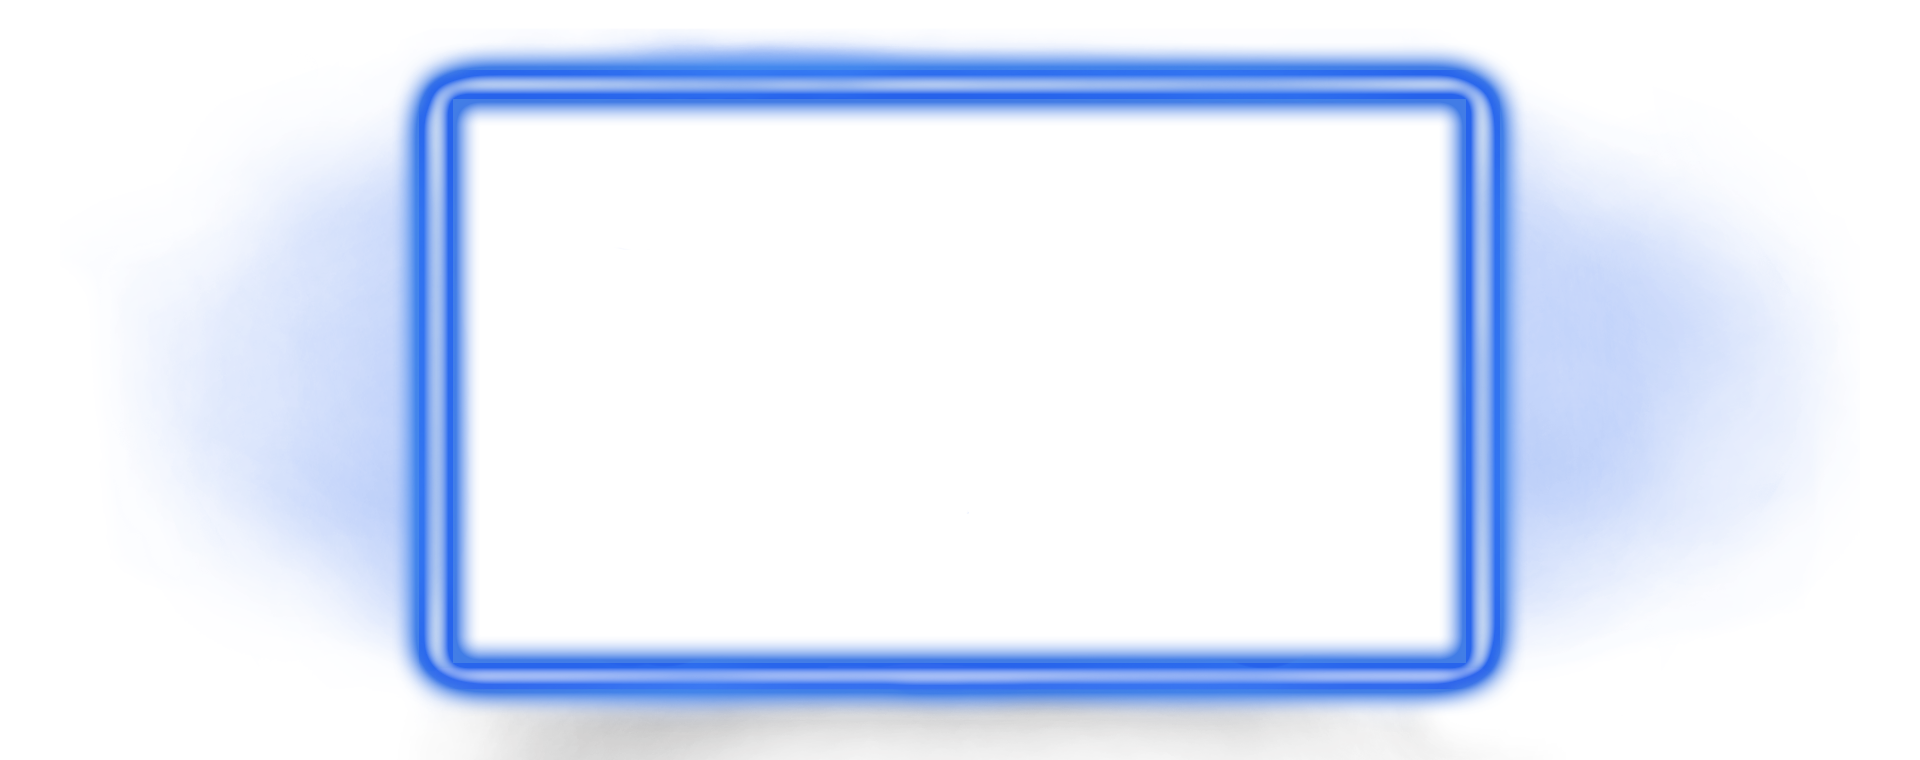
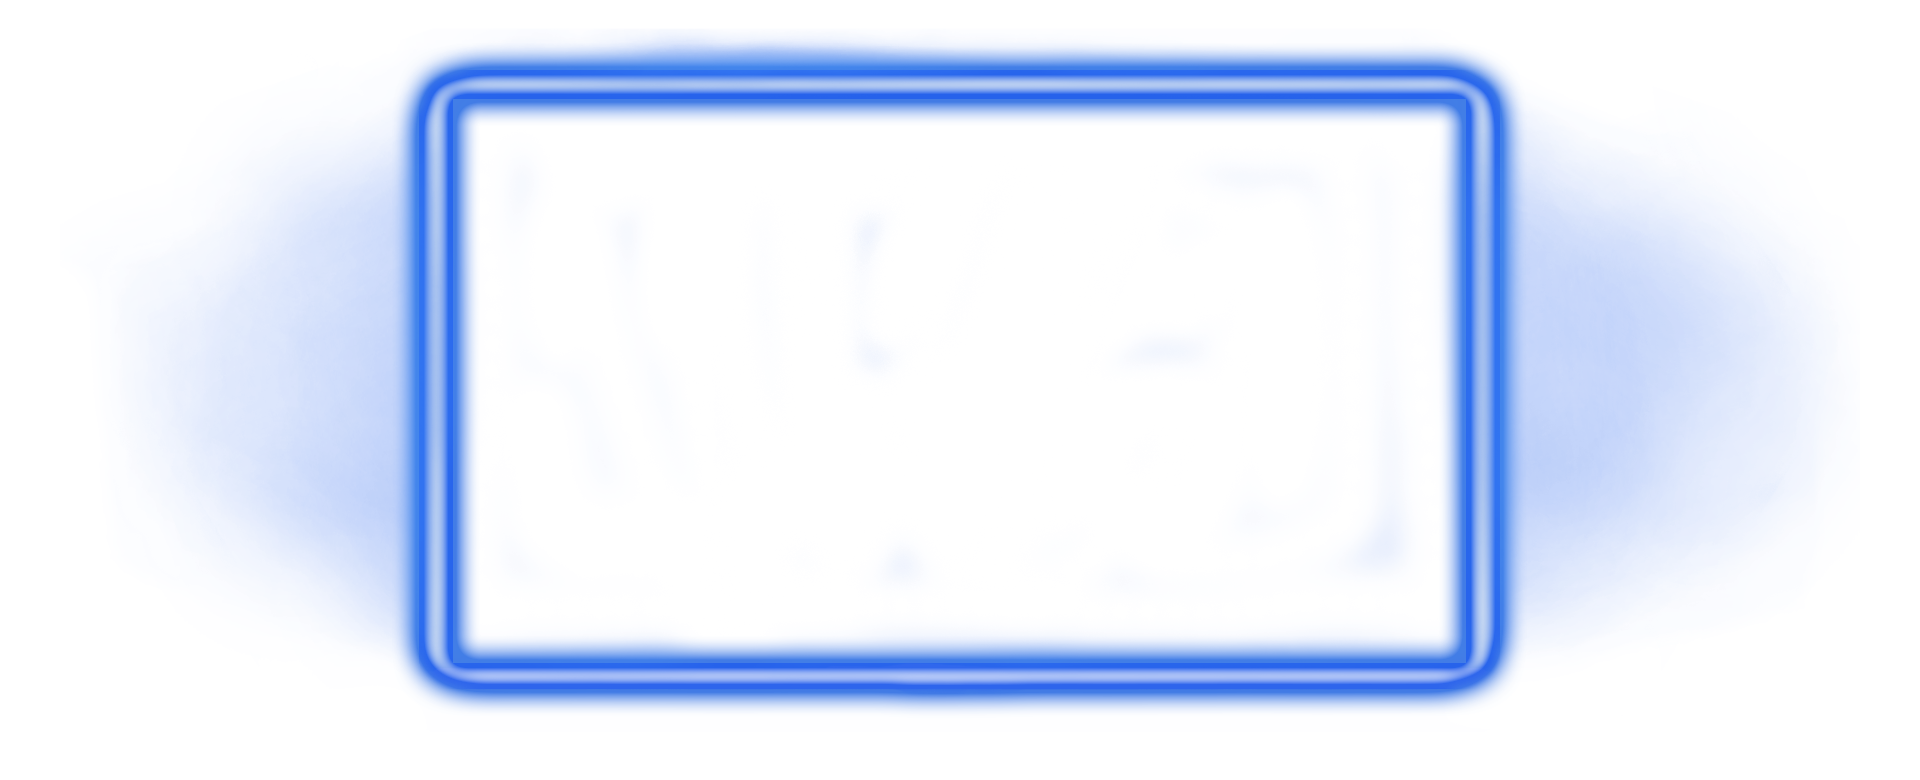
nastroyka okna

Changed region(s): [[0.1875, 0.8171, 0.8125, 1.0], [0.2188, 0.0908, 0.7812, 0.1513]]

diff --git a/static/css/style.css b/static/css/style.css
@@ -1,36 +1,26 @@
 body{
-    height: auto;
+
+
     background: linear-gradient(to top, black, #222222);
+    background-repeat: no-repeat;
+    background-size: cover;
+
 
 }
-.verh img{
+.verh{
 
-position: relative;
-}
-.ramka{
-z-index: 3;
-    display: block;
-    max-width: 100%;
-    height: auto;
-    margin-right: auto;
-    margin-left: auto;
-}
-.play{
-
-    display: block;
-    left: auto;
-    top:-430px;
-    z-index: 2;
-
-    margin-right: auto;
-    margin-left: auto;
-
+    height: 800px;
+    background-image: url("/image/ramka.png"), url("/image/cheterPlayer.png");
+    background-repeat: no-repeat;
+    background-position: center center;
 
 }
 .simple{
 
+
     background-color: aquamarine;
     max-width: 500px;
+
     margin-left: auto;
     margin-right: auto;
 

diff --git a/views/template_view.php b/views/template_view.php
@@ -5,11 +5,10 @@
     <title>Главная</title>
     <link rel="stylesheet" href="/static/css/style.css">
 </head>
-<bodyram
-<p class="verh">
-    <img class="ramka" src="/image/ramka.png">
-    <img class="play" src="/image/fotoFon.jpg" height="368" width="660">
-</p>
+<body>
+<div class="verh">
+    
+</div>
 <div class="ters">
 <div class="simple">
 <H1>Главное</H1>
